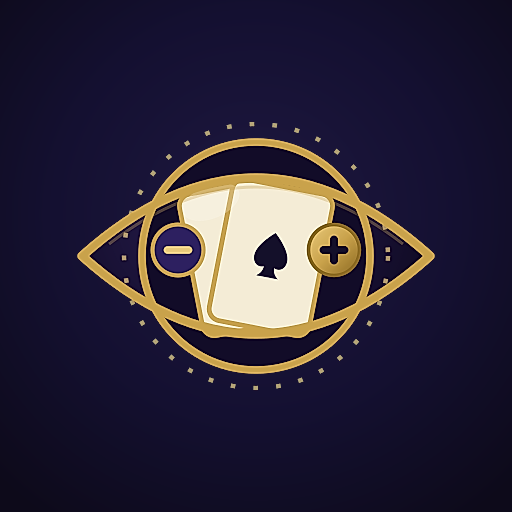
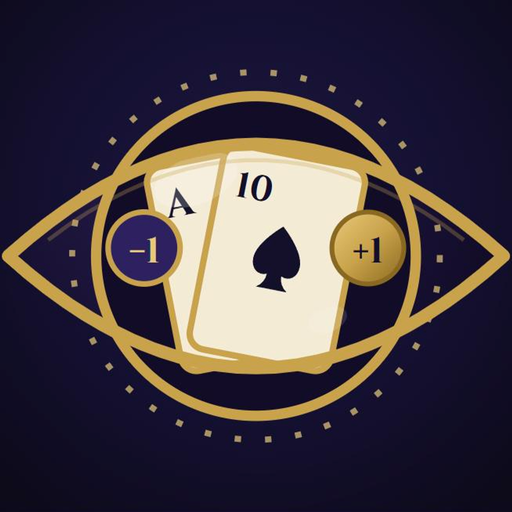
Auto-save 2026-09-13 02:21

Changed region(s): [[0.0, 0.125, 1.0, 0.875], [0.5625, 0.8438, 0.5938, 0.875], [0.4062, 0.125, 0.4375, 0.1562]]

diff --git a/TODO.md b/TODO.md
@@ -37,7 +37,7 @@
 > Vérifié dans la Console (2026-09-12) — Fiche Play Store par défaut (FR), tout est vide sauf le nom :
 - [x] Brève description (0/80 caractères) — faite par l'utilisateur (2026-09-13)
 - [x] Description complète (0/4000 caractères) — faite par l'utilisateur (2026-09-13)
-- [x] **Icône de l'app (2026-09-13)** — générée depuis les SVG sources (`assets/icon-background.svg`+`icon-foreground.svg`, motif œil+cartes) en 512×512, uploadée et enregistrée dans la Fiche Play Store. Fichier : `assets/playstore-icon-512.png`.
+- [x] **Icône de l'app (2026-09-13)** — remplacée par le vrai logo `AppLogo` de l'app (celui du header/logo cliquable : œil avec cartes As+10 et jetons texte "−1"/"+1", au lieu du motif générique de `icon-foreground.svg`), rendu en HTML/Chrome avec la police Cinzel du projet pour un texte net, sur le fond violet radial habituel, exporté 512×512. Uploadée et enregistrée dans la Fiche Play Store. Fichier : `assets/playstore-icon-512.png`.
 - [x] **Image de présentation / feature graphic (2026-09-13)** — composée en HTML/CSS avec les vraies polices du projet (Cinzel + EB Garamond, palette `G`), rendue dans Chrome et exportée en 1024×500 : icône à gauche, « HI-LO ACADEMY I » + « L'Académie Secrète des Compteurs ». Uploadée et enregistrée. Fichier : `assets/playstore-feature-graphic-1024x500.png`.
 - [ ] **Captures d'écran téléphone — minimum 4** (16:9 ou 9:16, ≥1080 px de côté) pour avoir le droit de promouvoir l'app — nécessite de vraies captures du jeu en action (lobby, une partie, stats/hauts faits…), pas généré automatiquement. **À faire manuellement** (ou lancer une session dédiée avec le jeu ouvert dans le navigateur/l'APK pour les prendre).
 - [ ] (optionnel) Captures d'écran tablette 7 pouces — jusqu'à 8
